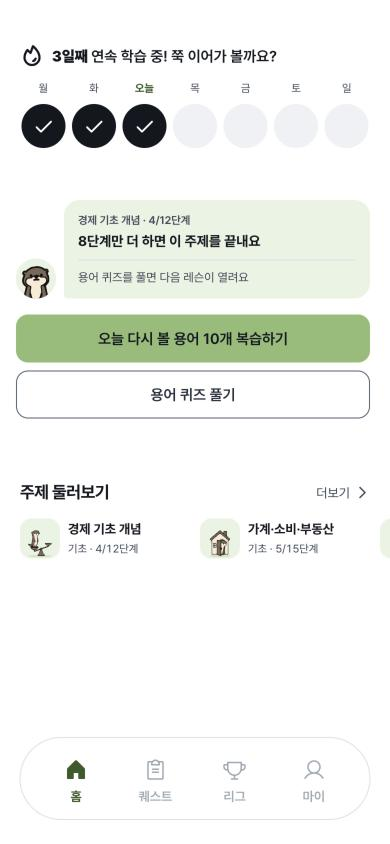
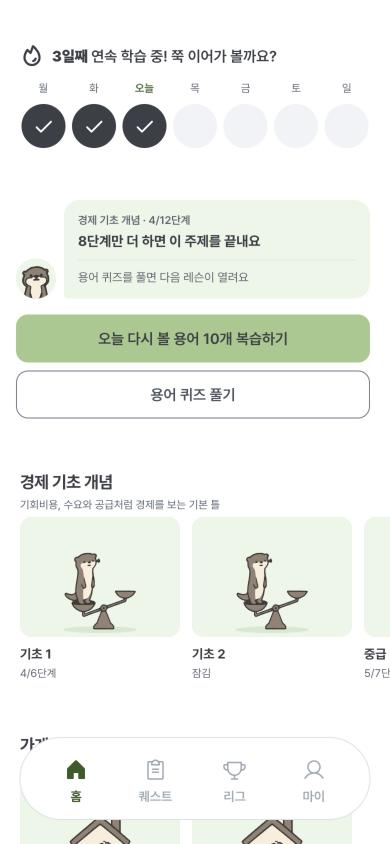
홈 '주제 둘러보기'를 주제명 섹션으로 나누고 하위에 난이도별 코스 카드(그림 위, 글자 아래) 배치. 주제별 한 줄 설명 추가, 맨 아래 전체 주제 보기

diff --git a/src/pages/CourseScreen.tsx b/src/pages/CourseScreen.tsx
@@ -2,6 +2,7 @@ import React, { useMemo, useRef, useLayoutEffect, useEffect, useState } from 're
 import { BookOpenText, Check, ListChecks, LockKeyhole, RotateCcw } from '../components/ui/OtterIcons';
 import { List, ListRow } from '@toss/tds-mobile';
 import { TopicThumb } from '../components/TopicThumb';
+import { TOPIC_DESCRIPTIONS } from '../lib/topicImages';
 import { ChevronRight } from '../components/ui/ControlIcons';
 import { useLocation, useNavigate, useSearchParams } from 'react-router-dom';
 import { useAppContext } from '../context/AppContext';
@@ -377,24 +378,35 @@ const CourseScreen = () => {
           </ActionButton>}
         </section>
 
-        <div className="course-home-section-heading mx-5 flex shrink-0 items-center justify-between gap-3">
-          <h2 className="type-section-title">주제 둘러보기</h2>
-          <button type="button" onClick={() => navigate('/course/topics')} aria-label="전체 주제 더보기"
-            className="course-home-more inline-flex min-h-11 items-center gap-1 text-xs text-[var(--color-ink-3)] active:opacity-70">더보기<ChevronRight size={16} /></button>
-        </div>
-        {/* 바로 열 수 있는 주제를 가로 카드로 훑어본다 */}
-        <div className="course-home-rail" role="list" aria-label="바로 볼 수 있는 주제">
-          {topics.filter(topic => !topic.locked).slice(0, 6).map(topic => (
-            <button key={`${topic.level}-${topic.category}`} type="button" role="listitem" className="course-home-rail-card"
-              onClick={() => navigate(`/course?topic=${topic.index}`)} aria-label={`${topic.level} ${topic.category} 주제 열기, ${topicSteps(topic).done}/${topicSteps(topic).total}단계 완료`}>
-              <TopicThumb category={topic.category} />
-              <span className="course-home-rail-text">
-                <span className="course-home-rail-title">{topic.category}</span>
-                <span className="course-home-rail-meta">{topic.level} · {topicSteps(topic).done}/{topicSteps(topic).total}단계</span>
-              </span>
-            </button>
-          ))}
-        </div>
+        {/* 열린 주제를 주제명별로 묶고, 그 아래에 난이도별 코스를 가로 카드로 둔다 */}
+        {[...new Set(topics.filter(topic => !topic.locked).map(topic => topic.category))].slice(0, 6).map(category => (
+          <section key={category} aria-label={category}>
+            <div className="course-home-section-heading">
+              <h2 className="type-section-title">{category}</h2>
+              {TOPIC_DESCRIPTIONS[category] && <p className="course-home-section-desc">{TOPIC_DESCRIPTIONS[category]}</p>}
+            </div>
+            <div className="course-home-rail" role="list" aria-label={`${category} 코스`}>
+              {topics.filter(topic => topic.category === category).flatMap(topic => topic.parts.map(({ section }, pi) => {
+                const steps = section.nodes.filter(isStep);
+                const done = steps.filter(isDone).length;
+                const locked = section.nodes.every(node => node.state === 'locked');
+                const label = topic.parts.length > 1 ? `${topic.level} ${pi + 1}` : topic.level;
+                return (
+                  <button key={section.course.id} type="button" role="listitem" className="course-home-rail-card"
+                    onClick={() => navigate(`/course?topic=${topic.index}`)} aria-label={`${category} ${label} 코스 열기, ${locked ? '잠김' : `${done}/${steps.length}단계 완료`}`}>
+                    <TopicThumb category={category} size={160} height={120} />
+                    <span className="course-home-rail-text">
+                      <span className="course-home-rail-title">{label}</span>
+                      <span className="course-home-rail-meta">{locked ? '잠김' : `${done}/${steps.length}단계`}</span>
+                    </span>
+                  </button>
+                );
+              }))}
+            </div>
+          </section>
+        ))}
+        <button type="button" onClick={() => navigate('/course/topics')} aria-label="전체 주제 보기"
+          className="course-home-more mx-5 mb-4 inline-flex min-h-11 items-center gap-1 text-xs text-[var(--color-ink-3)] active:opacity-70">전체 주제 보기<ChevronRight size={16} /></button>
       </>}
       {isCatalog && <>
         <div className="px-5">

diff --git a/src/pages/CourseScreen.test.tsx b/src/pages/CourseScreen.test.tsx
@@ -218,7 +218,7 @@ describe('CourseScreen energy gates', () => {
     expect(HTMLElement.prototype.scrollIntoView).not.toHaveBeenCalled();
   });
 
-  it('더보기는 현재 학습을 별도 주제 목록 페이지로 전환한다', async () => {
+  it('전체 주제 보기는 현재 학습을 별도 주제 목록 페이지로 전환한다', async () => {
     baseContext({ courses: [course(), course({ id: 'c2', category: '금융', startId: 5 })] });
     const { container, clickButtonContaining } = await mount('/course');
     const hero = container.querySelector('.course-home-hero');
@@ -238,7 +238,7 @@ describe('CourseScreen energy gates', () => {
     expect(primary?.querySelector('svg')).toBeNull();
     expect(container.querySelector('[role="tablist"]')).toBeNull();
     expect(container.querySelector('.course-home-catalog')).toBeNull();
-    await clickButtonContaining('더보기');
+    await clickButtonContaining('전체 주제 보기');
     expect(container.querySelector('[data-location]')).toHaveTextContent('/course/topics');
     expect(container.querySelector('.course-home-hero')).toBeNull();
     expect(container.querySelector('.course-home-more')).toBeNull();
@@ -268,7 +268,7 @@ describe('CourseScreen energy gates', () => {
     const advanced = { ...course({ id: 'c2', category: '금융', startId: 5 }), level: '중급' } as Course;
     baseContext({ courses: [course(), advanced] });
     const { container, clickButtonContaining } = await mount('/course');
-    await clickButtonContaining('더보기');
+    await clickButtonContaining('전체 주제 보기');
     const filters = [...container.querySelectorAll<HTMLButtonElement>('[role="tab"]')];
     expect(filters.map(button => button.textContent?.trim())).toEqual(['전체', '기초', '중급', '고급', '심화']);
     const intermediate = filters.find(button => button.textContent?.trim() === '중급');
@@ -290,7 +290,7 @@ describe('CourseScreen energy gates', () => {
   it('키보드로 난이도를 이동하고 빈 난이도도 안내한다', async () => {
     baseContext({ courses: [course()] });
     const { container, clickButtonContaining } = await mount('/course');
-    await clickButtonContaining('더보기');
+    await clickButtonContaining('전체 주제 보기');
     const tabs = [...container.querySelectorAll<HTMLButtonElement>('[role="tab"]')];
     const press = async (index: number, key: string) => {
       await act(async () => tabs[index].dispatchEvent(new KeyboardEvent('keydown', { key, bubbles: true })));

diff --git a/src/lib/topicImages.ts b/src/lib/topicImages.ts
@@ -12,3 +12,24 @@ export const TOPIC_IMAGES: Record<string, string> = {
 // 용어가 속한 코스의 주제 이름. 못 찾으면 undefined
 export const topicOfWord = (wordId: number, courses: { category: string; words: { id: number }[] }[]) =>
   courses.find(course => course.words.some(w => w.id === wordId))?.category;
+
+// 홈 주제 카드 한 줄 설명. 난이도와 상관없이 주제 단위로 둔다
+export const TOPIC_DESCRIPTIONS: Record<string, string> = {
+  '경제 기초 개념': '기회비용, 수요와 공급처럼 경제를 보는 기본 틀',
+  '가계·소비·부동산': '소득과 소비부터 대출 규제, 집값까지 살림 이야기',
+  '물가·인플레이션': '장바구니 물가가 오르내리는 이유와 물가 지표',
+  '경기·성장·국민소득': 'GDP와 경기 지표로 보는 나라 경제의 체력',
+  '고용·노동·분배': '일자리, 임금, 실업률과 소득 분배',
+  '금리·통화정책·중앙은행': '기준금리를 정하는 한국은행과 시중의 돈',
+  '주식·채권시장': '주가지수, 공시, 국채와 회사채가 움직이는 시장',
+  '파생상품·펀드·투자': 'ETF, 펀드, 선물·옵션 같은 투자 상품',
+  '외환·환율': '환율이 오르내리는 이유와 원화 강세·약세',
+  '국제수지·무역·통상': '수출입, 관세, 경상수지로 보는 나라 밖 거래',
+  '재정·조세·사회보장': '세금과 나라 살림, 국민연금 같은 사회보장',
+  '지급결제·화폐': '카드, 계좌이체처럼 돈이 실제로 오가는 방법',
+  '핀테크·디지털·신산업': '간편 송금, 가상자산, AI가 바꾸는 금융',
+  '기업·산업·회계': '순이익, 손익분기점으로 기업 실적 읽기',
+  '은행·금융제도': '은행이 하는 일과 금융회사를 묶는 규칙',
+  '국제기구·세계경제': 'IMF, OECD, 신용등급으로 보는 세계 경제',
+  '금융안정·건전성 규제': '금융위기를 막는 자기자본비율 같은 안전장치',
+};

diff --git a/src/index.css b/src/index.css
@@ -1209,9 +1209,10 @@ button.review-aux-button:disabled { color: var(--color-ink-3); }
 .my-page-sections .my-page-panel.my-page-menu { padding-inline: 0; }
 .my-page-menu button > div { padding-inline: var(--space-5); }
 /* 홈 주제 카드: 작은 주제 썸네일 + 제목·단계를 한 줄로. 주버튼보다 가볍게 */
-button.course-home-rail-card { width: 168px; flex-direction: row; align-items: center; gap: var(--space-2); }
+button.course-home-rail-card { width: 160px; flex-direction: column; align-items: stretch; gap: var(--space-2); }
 .course-home-rail-text { display: flex; min-width: 0; flex-direction: column; gap: 2px; }
 .course-home-rail-card .course-home-rail-title { font-size: var(--font-size-label); }
+.course-home-section-desc { margin: 2px 0 0; color: var(--color-ink-3); font-size: var(--font-size-caption); }
 /* 주제 썸네일(홈 카드·뉴스). 사진이 없으면 회색 바탕 + 첫 글자 */
 .topic-thumb { flex-shrink: 0; border-radius: var(--shape-inset); object-fit: cover; background: var(--color-surface); }
 .topic-thumb-fallback { display: inline-flex; align-items: center; justify-content: center; color: var(--color-ink-3); font-size: var(--font-size-label); font-weight: var(--font-weight-bold); }

diff --git a/src/components/TopicThumb.tsx b/src/components/TopicThumb.tsx
@@ -1,9 +1,9 @@
 import { TOPIC_IMAGES } from '../lib/topicImages';
 
 // 주제 썸네일: 작은 정사각 그림(가로 장면은 가운데를 잘라 씀). 그림이 없는 주제는 회색 바탕에 주제 첫 글자(대체 규칙)
-export const TopicThumb = ({ category, size = 40 }: { category: string; size?: number }) => {
+export const TopicThumb = ({ category, size = 40, height = size }: { category: string; size?: number; height?: number }) => {
   const src = TOPIC_IMAGES[category];
   return src
-    ? <img className="topic-thumb" src={src} alt="" aria-hidden="true" width={size} height={size} loading="lazy" decoding="async" style={{ width: size, height: size }} />
-    : <span className="topic-thumb topic-thumb-fallback" aria-hidden="true" style={{ width: size, height: size }}>{Array.from(category)[0]}</span>;
+    ? <img className="topic-thumb" src={src} alt="" aria-hidden="true" width={size} height={height} loading="lazy" decoding="async" style={{ width: size, height }} />
+    : <span className="topic-thumb topic-thumb-fallback" aria-hidden="true" style={{ width: size, height }}>{Array.from(category)[0]}</span>;
 };

diff --git a/DESIGN.md b/DESIGN.md
@@ -74,9 +74,9 @@
 
 **주제 썸네일(2026-11-04)**
 
-- 홈 "주제 둘러보기" 카드와 단어 카드 뉴스에 40px 정사각 주제 그림을 둔다(`TopicThumb`). 15개 주제는 달리 장면 일러스트(`public/topics/scenes/topic-<slug>.svg`, 240x180, 정사각으로 가운데를 잘라 씀), 장면이 없는 은행·금융제도, 핀테크·디지털·신산업 2개만 Unsplash 사진(`public/topics/SOURCES.md`).
+- 홈은 열린 주제 6개를 주제명 섹션으로 나누고(제목 + 한 줄 설명 `TOPIC_DESCRIPTIONS`), 그 아래에 난이도별 코스 카드(160x120 주제 그림 + "기초 1"·단계/잠김)를 가로로 둔다. 맨 아래 "전체 주제 보기". 단어 카드 뉴스는 40px 정사각 그림(`TopicThumb`). 15개 주제는 달리 장면 일러스트(`public/topics/scenes/topic-<slug>.svg`, 240x180, 정사각으로 가운데를 잘라 씀), 장면이 없는 은행·금융제도, 핀테크·디지털·신산업 2개만 Unsplash 사진(`public/topics/SOURCES.md`).
 - 그림이 없는 주제는 회색 바탕에 주제 첫 글자를 둔다. 새 주제는 장면 일러스트로 추가한다(`docs/character/topics/`).
-- 카드는 주버튼보다 가볍게 한 줄(썸네일 + 제목·단계)로 둔다. 기사 원문 사진은 언론사 저작물이라 쓰지 않는다.
+- 카드는 그림자 없이 그림과 글자만 둔다. 기사 원문 사진은 언론사 저작물이라 쓰지 않는다.
 
 ### 2-3. 다크 모드
 
